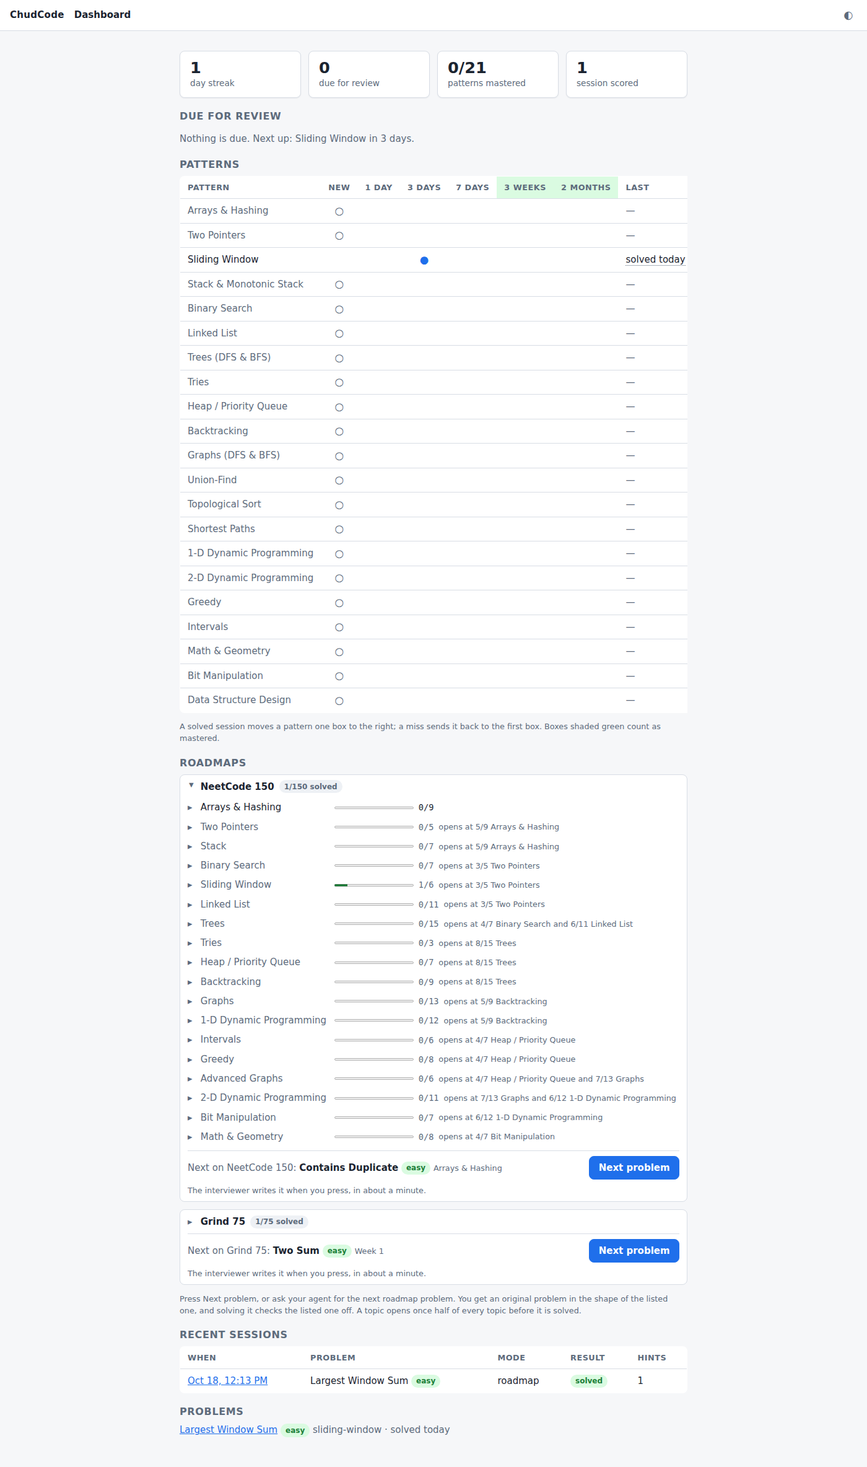
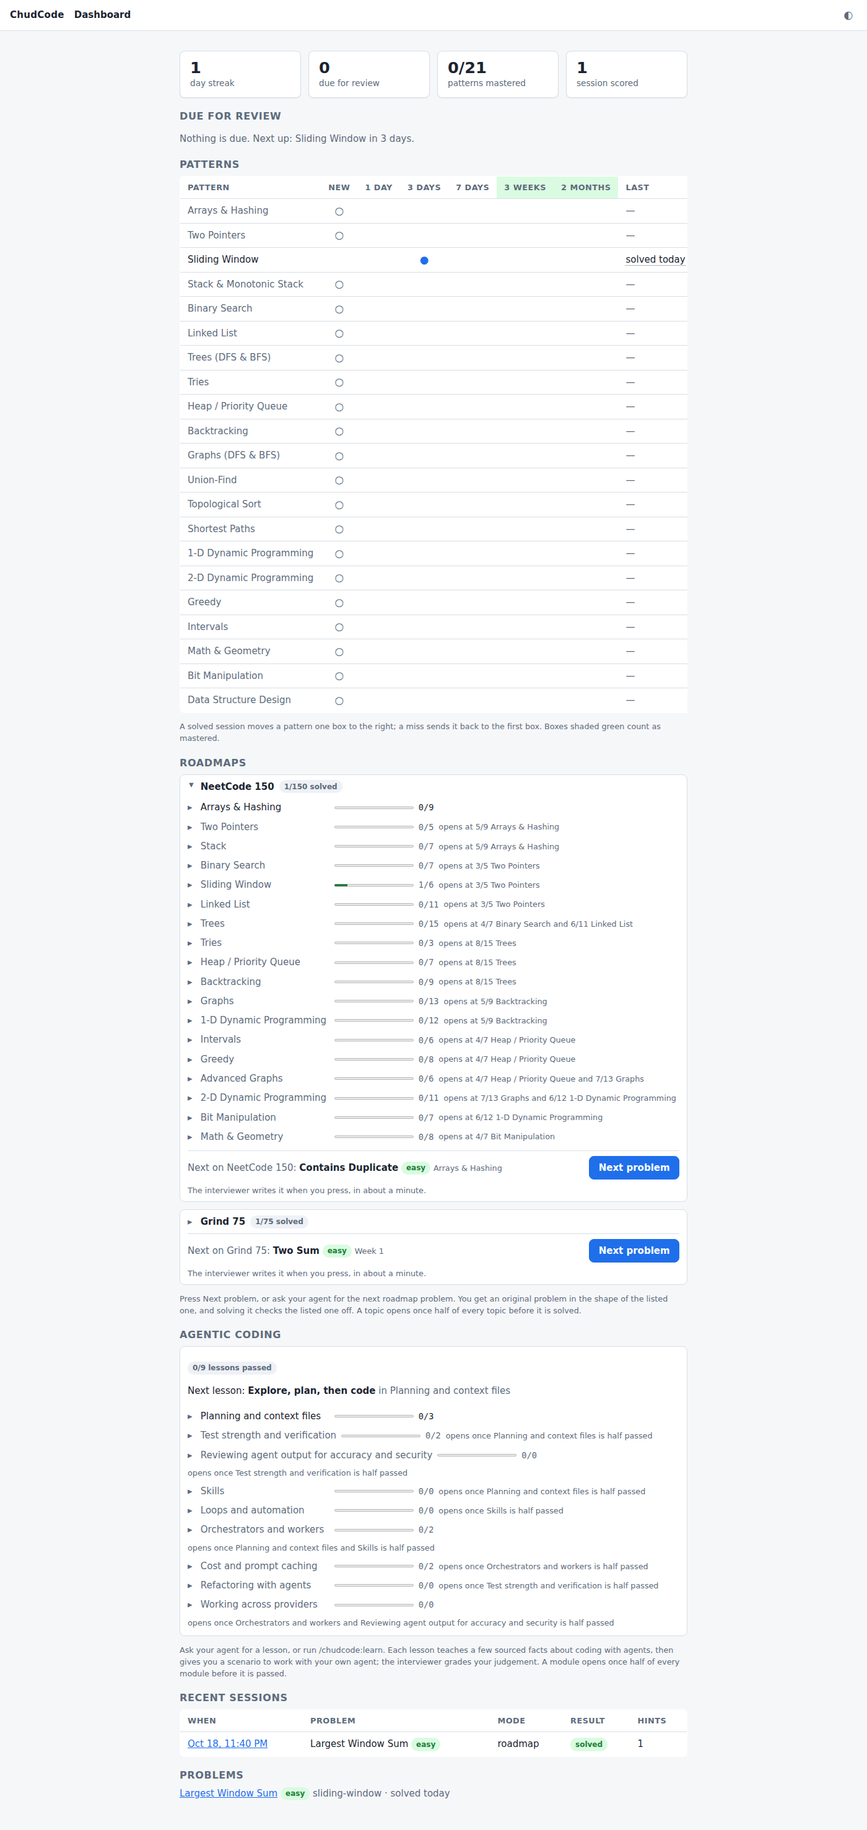
Add /chudcode:learn and Pi's /learn, with the lesson docs
The learn skill and the Pi command take the user from a topic to a scored
lesson. docs/CURRICULUM-FORMAT.md says how to add a module, a lesson, or a
sourced fact; docs/EXERCISE-FORMAT.md describes an exercise bundle and its
validation. The README and ARCHITECTURE.md describe the agentic-coding track,
with a screenshot of a lesson's debrief.

diff --git a/pi/commands.ts b/pi/commands.ts
@@ -78,6 +78,22 @@ export const COMMANDS = {
         "After the debrief, write and validate the next step ahead of time as `record_session` asks, without starting it, then end your turn. A press of Next problem on the page arrives as a new message; start the session then.",
       ].join("\n\n"),
   },
+  learn: {
+    description:
+      "Take a lesson on coding with agents: planning, context, tests, subagents, cost, and more. Usage: /learn [topic or lesson]",
+    prompt: (args: string) =>
+      [
+        "Teach a ChudCode lesson on agentic coding.",
+        args
+          ? `The user asked to learn about: ${args}`
+          : "The user named no topic, so take the next lesson.",
+        "Call `list_curriculum` if you need to match a topic to a lesson, then `begin_lesson` and follow the method it returns in full. " +
+          "Serve a validated exercise the learner has not seen, or write one with `write_exercise` and `validate_exercise` until it passes. Then call `start_lesson`.",
+        "Give the user the URL in the terminal and say one sentence on the page with `say_to_candidate`. " +
+          "The learner's actions then arrive here as messages; handle each one and end your turn. They may spend a long time with their own agent between messages. " +
+          "When their answer has arrived and you have asked your follow-ups, score it with `record_lesson` and summarise in the terminal: the verdict, two strengths, two things to work on, and when the lesson comes back.",
+      ].join("\n\n"),
+  },
   research: {
     description:
       "Find what a company has been asking in coding interviews. Usage: /research <company> [role]",

diff --git a/test/plugin.test.ts b/test/plugin.test.ts
@@ -96,7 +96,7 @@ describe("Pi package", () => {
 describe("skills", () => {
   const known = new McpSession(new CandidateInbox()).toolNames();
 
-  it.each(["interview", "review", "roadmap", "dashboard", "research"])(
+  it.each(["interview", "review", "roadmap", "dashboard", "research", "learn"])(
     "%s has frontmatter and names only tools the server lists",
     (skill) => {
       const body = fs.readFileSync(path.join(packageRoot(), "skills", skill, "SKILL.md"), "utf8");

diff --git a/test/bridge.test.ts b/test/bridge.test.ts
@@ -251,6 +251,7 @@ describe("commands", () => {
       "interview",
       "review",
       "roadmap",
+      "learn",
       "research",
       "dashboard",
     ]);

diff --git a/docs/ARCHITECTURE.md b/docs/ARCHITECTURE.md
@@ -36,23 +36,26 @@ runs in a fourth place, inside Pi, and bridges the two hosts' different abilitie
 
 ## Modules
 
-| Path                    | Job                                                                                                                                                                                    |
-| ----------------------- | -------------------------------------------------------------------------------------------------------------------------------------------------------------------------------------- |
-| `mcp/launch.mjs`        | Entry point both hosts run. Checks Node can run TypeScript, installs runtime deps on first launch, warns if Python is missing.                                                         |
-| `src/mcp.ts`            | Hand-written JSON-RPC dispatch, the tool table, the listening inbox, and routing of candidate events to prompts.                                                                       |
-| `src/next-up.ts`        | The Next problem button: one pending press, handed to the host and answered by the next roadmap session `start_session` creates.                                                       |
-| `hooks/session-link.ts` | Claude Code hook on `start_session`: prints the session's link in the terminal, so it never depends on the model's reply. Pi's extension shows the same link under the editor.         |
-| `src/outbox.ts`         | The pushing host's numbered prompt log, replayable with `GET /api/inbox?since`.                                                                                                        |
-| `src/tools/`            | One file per tool group. Tools validate arguments and call `flow.ts` or a store.                                                                                                       |
-| `src/flow.ts`           | Every operation that moves a session along: start, note, message, run, submit, hint, timeout, done, record. Writes disk, appends the event log, pushes SSE, emits the candidate event. |
-| `src/prompts.ts`        | Everything the agent reads: the brief, event prompts, result text. One place to tune the interviewer.                                                                                  |
-| `src/server/`           | Loopback HTTP: pages, the JSON API, SSE channels, the agent token.                                                                                                                     |
-| `src/runner/`           | `Runner` and `LanguageAdapter` interfaces, the process and Docker runners, comparators, and the candidate-safe view of a result.                                                       |
-| `src/store/`            | On-disk formats: config, problems, sessions, review events, trends. Atomic JSON writes, strict id validation.                                                                          |
-| `src/review.ts`         | Leitner scheduling over pattern and problem keys, derived from the review log on every read.                                                                                           |
-| `src/roadmap.ts`        | NeetCode 150's topic tree and Grind 75's weeks as stages, and each title's state, derived from sessions whose problem mimics it.                                                       |
-| `assets/runtime/`       | The browser code, plain ES modules served as-is. `assets/vendor/` holds the one bundled dependency, CodeMirror.                                                                        |
-| `pi/`                   | The Pi extension: slash commands, the bridge, the status line.                                                                                                                         |
+| Path                    | Job                                                                                                                                                                                               |
+| ----------------------- | ------------------------------------------------------------------------------------------------------------------------------------------------------------------------------------------------- |
+| `mcp/launch.mjs`        | Entry point both hosts run. Checks Node can run TypeScript, installs runtime deps on first launch, warns if Python is missing.                                                                    |
+| `src/mcp.ts`            | Hand-written JSON-RPC dispatch, the tool table, the listening inbox, and routing of candidate events to prompts.                                                                                  |
+| `src/next-up.ts`        | The Next problem button: one pending press, handed to the host and answered by the next roadmap session `start_session` creates.                                                                  |
+| `hooks/session-link.ts` | Claude Code hook on `start_session` and `start_lesson`: prints the session's link in the terminal, so it never depends on the model's reply. Pi's extension shows the same link under the editor. |
+| `src/outbox.ts`         | The pushing host's numbered prompt log, replayable with `GET /api/inbox?since`.                                                                                                                   |
+| `src/tools/`            | One file per tool group. Tools validate arguments and call `flow.ts` or a store.                                                                                                                  |
+| `src/flow.ts`           | Every operation that moves a session along: start, note, message, run, submit, hint, timeout, done, record. Writes disk, appends the event log, pushes SSE, emits the candidate event.            |
+| `src/prompts.ts`        | Everything the agent reads: the brief, event prompts, result text. One place to tune the interviewer.                                                                                             |
+| `src/server/`           | Loopback HTTP: pages, the JSON API, SSE channels, the agent token.                                                                                                                                |
+| `src/runner/`           | `Runner` and `LanguageAdapter` interfaces, the process and Docker runners, comparators, and the candidate-safe view of a result.                                                                  |
+| `src/store/`            | On-disk formats: config, problems, sessions, review events, trends. Atomic JSON writes, strict id validation.                                                                                     |
+| `src/review.ts`         | Leitner scheduling over pattern, problem, and lesson keys, derived from the review log on every read.                                                                                             |
+| `src/roadmap.ts`        | NeetCode 150's topic tree and Grind 75's weeks as stages, and each title's state, derived from sessions whose problem mimics it.                                                                  |
+| `src/curriculum.ts`     | The agentic-coding track (`data/agentic/curriculum.json`): modules, lessons, and sourced facts, with module unlocks derived from scored lessons.                                                  |
+| `src/lesson-flow.ts`    | Every operation that moves a lesson session along: start, message, answer, timeout, done, record. Lessons live in `lessons/`, apart from interviews.                                              |
+| `src/lesson-prompts.ts` | What the agent reads for lessons: the lesson brief with its facts and their freshness, and the lesson event prompts.                                                                              |
+| `assets/runtime/`       | The browser code, plain ES modules served as-is. `assets/vendor/` holds the one bundled dependency, CodeMirror.                                                                                   |
+| `pi/`                   | The Pi extension: slash commands, the bridge, the status line.                                                                                                                                    |
 
 ## One interview, end to end
 
@@ -76,6 +79,26 @@ runs in a fourth place, inside Pi, and bridges the two hosts' different abilitie
 7. `record_session` writes the rubric and verdict, appends review events for the
    problem and its patterns, and pushes the debrief card to the page and a reload
    to the dashboard.
+
+## One lesson, end to end
+
+The agentic-coding track reuses the server, the page's chat and clock, the inbox,
+and the review schedule, and keeps its own store and prompts.
+
+1. The agent calls `begin_lesson`. It returns the method (`docs/LEARNING.md`), the
+   lesson's goals and facts with their sources and which are due a re-check, the
+   exercises on disk, the learner's history, and the rubric (`docs/AGENTIC-RUBRIC.md`).
+2. The agent re-reads stale sources and logs each with `record_fact_check`, then
+   writes an exercise with `write_exercise` and validates it with
+   `validate_exercise`, which rejects teaching that cites a fact the lesson lacks or
+   misses a core one (`docs/EXERCISE-FORMAT.md`).
+3. `start_lesson` creates `lessons/<id>/` and returns the same "Session … is ready"
+   line, so the link hook and the Pi status line work unchanged.
+4. The learner reads, presses Start, works the scenario with their own agent, and
+   submits an answer. Each action goes through `lesson-flow.ts` and reaches the agent
+   like an interview event; the answer arrives beside the private outline.
+5. `record_lesson` scores the five agentic dimensions, appends one `lesson:<id>`
+   review event, and pushes the debrief.
 
 ## Two hosts, one server
 

diff --git a/README.md b/README.md
@@ -9,6 +9,11 @@ them, probes edge cases and complexity after you submit, and scores the session 
 rubric. Patterns you miss come back on a spaced-review schedule with a fresh problem,
 not the one you already saw.
 
+A second track teaches coding _with_ agents: planning with plan mode, context files,
+tests an agent cannot game, subagents with the right model and effort, prompt-caching
+cost, and more. Each lesson teaches a few facts sourced from Anthropic's docs, then
+hands you a realistic scenario to work with your own agent, and grades your judgement.
+
 **Status:** early development. Mock interviews work; the interviewer writes its own
 problems, validated against a reference solution before they are served; the
 patterns you miss come back on a Leitner schedule with a problem you have not seen;
@@ -35,7 +40,8 @@ and the plugin prints the session's link in your terminal every time one starts.
 again. `/chudcode:roadmap` takes you through NeetCode 150 in order, or Grind 75 if you
 name it: each step is an original problem in the shape of the next one on the list,
 and after each debrief a Next problem button takes you straight to the one after.
-`/chudcode:research <company>` finds what that company has been asking lately,
+`/chudcode:learn` teaches the next lesson on coding with agents, or the topic you
+name. `/chudcode:research <company>` finds what that company has been asking lately,
 so an interview for it has the right shape. `/chudcode:dashboard` opens the page with
 your review schedule, streak, and past sessions.
 
@@ -69,7 +75,7 @@ Then add the server to `~/.pi/agent/mcp.json`, with the absolute path to your cl
 ```
 
 `CHUDCODE_HOST=pi` is what switches the server from waiting to pushing. The commands
-are `/interview`, `/review`, `/roadmap`, `/research <company>`, and `/dashboard`. While the
+are `/interview`, `/review`, `/roadmap`, `/learn`, `/research <company>`, and `/dashboard`. While the
 interviewer is connected, Pi shows `chudcode interviewer connected on port <port>`
 below the editor, and the link of the session it opened last.
 
@@ -102,6 +108,17 @@ make sure the patterns you keep missing are the ones you see again.
   so a "like Two Sum" interview counts too. After a roadmap debrief the interviewer
   writes the next step ahead of time and stays for a while; the Next problem button
   on the debrief or the dashboard opens it without a trip back to the terminal.
+- Agentic coding lessons: nine modules, from planning and context files through test
+  strength, subagents with chosen models and effort, and prompt-caching cost, to
+  working across providers. Every claim a lesson teaches about Claude Code cites a
+  fact in `data/agentic/curriculum.json`, each with the page that states it; the
+  interviewer re-reads sources older than two weeks before teaching, and an exercise
+  that cites anything else fails validation. You get a scenario, work it with your
+  own agent, submit your plan or spec, answer follow-ups, and are scored on
+  decomposition, verification, context and cost, safety, and delegation. Missed
+  lessons come back on the review schedule. See `docs/LEARNING.md` and
+  `docs/CURRICULUM-FORMAT.md`. Labs on your own repository and drills graded by code
+  are next.
 - Company trends: the research skill reads recent interview-experience posts with
   the host's web tools and records each problem as a pattern, a role, a date, a
   source, and a short paraphrase of its shape, never a statement. Name the company
@@ -116,10 +133,16 @@ when the pattern comes back, and, on a roadmap, the button for the next problem.
 
 ![The page after the debrief: 12 of 12 cases passed, the rubric card with scores, strengths, and things to work on, and a Next problem button for Contains Duplicate on NeetCode 150](docs/screenshots/session-debrief.png)
 
-The dashboard shows every pattern's place in the review schedule, what is due, the
-streak, progress through both roadmaps, and past sessions.
+A lesson shows its teaching with numbered sources on the left, the scenario and your
+answer in the middle, and the interviewer on the right.
 
-![The dashboard: streak and due counts, the pattern grid with Sliding Window in the three-day box, the NeetCode 150 topics with what each needs to open, a Next problem button under each roadmap, and recent sessions](docs/screenshots/dashboard.png)
+![A lesson page: the teaching on planning with three cited sources, the brief for planning OFX import into a ledger CLI with a submitted answer, and a debrief that passed on decomposition and verification](docs/screenshots/lesson-debrief.png)
+
+The dashboard shows every pattern's place in the review schedule, what is due, the
+streak, progress through both roadmaps and the agentic-coding modules, and past
+sessions.
+
+![The dashboard: streak and due counts, the pattern grid with Sliding Window in the three-day box, the NeetCode 150 topics with what each needs to open, a Next problem button under each roadmap, the agentic-coding modules with the next lesson, and recent sessions](docs/screenshots/dashboard.png)
 
 The screenshots come from `npm run e2e:browser -- <dir>`, which drives the real page.
 How the pieces fit is in `docs/ARCHITECTURE.md`.

diff --git a/docs/CURRICULUM-FORMAT.md b/docs/CURRICULUM-FORMAT.md
@@ -1,0 +1,68 @@
+# Curriculum format
+
+The agentic-coding track is one file, `data/agentic/curriculum.json`, checked by
+`validateCurriculum` in `src/curriculum.ts` when it loads and by
+`test/curriculum.test.ts` in CI.
+
+```json
+{
+  "version": 1,
+  "factHosts": ["code.claude.com", "docs.claude.com", "platform.claude.com", "www.anthropic.com"],
+  "modules": [
+    {
+      "id": "planning",
+      "name": "Planning and context files",
+      "blurb": "One sentence for the dashboard.",
+      "requires": [],
+      "lessons": [
+        {
+          "id": "plan-before-code",
+          "title": "Explore, plan, then code",
+          "goals": ["What the learner can do afterwards"],
+          "facts": [
+            {
+              "id": "plan-mode-behavior",
+              "claim": "One or two sentences, true of Claude Code as the source states it.",
+              "source": "https://code.claude.com/docs/en/permission-modes",
+              "core": true,
+              "verifiedAt": "2026-10-18",
+              "minVersion": "2.1.0"
+            }
+          ],
+          "exercises": ["design-review", "lab"],
+          "rubricFocus": ["decomposition", "verification"],
+          "checklist": [{ "id": "phases", "text": "What a lab checks for" }],
+          "labFiles": ["PLAN.md", "progress.md"]
+        }
+      ]
+    }
+  ]
+}
+```
+
+## Rules
+
+- **Modules** are listed in unlock order. `requires` may name only earlier modules.
+  A module opens once every module it requires has half of its teachable lessons
+  passed (rounded up), and the modules it requires are open themselves.
+- **Lessons** have unique ids across the file. `rubricFocus` names dimensions from
+  `docs/AGENTIC-RUBRIC.md`; each must score 2 or more for the lesson to pass.
+- **Facts** have unique ids across the file. Each claim is something its source page
+  says, checked by a person or an agent reading that page on `verifiedAt`; never a
+  claim from memory. `source` must be an `https` URL on one of `factHosts`. A fact
+  that only holds from some Claude Code version carries `minVersion`. A teachable
+  lesson has at least two facts, at least one of them `core`. Exercise teaching must
+  cite every core fact as `[fact:<id>]`.
+- **Outlines.** A lesson with `"facts": []` is an outline: it shows on the dashboard
+  as coming, cannot be taught, and does not count toward unlocking. Write and source
+  its facts to make it teachable.
+- **Labs.** A teachable lesson that lists `lab` needs a `checklist` and the
+  `labFiles` a lab reads.
+
+## Keeping facts current
+
+Claude Code changes faster than this file. Before teaching, the interviewer re-reads
+the source of any fact last confirmed more than 14 days ago and records what it
+found with `record_fact_check` in `~/.chudcode/curriculum/fact-checks.jsonl`. A fact
+found changed is taught as the page says now, flagged on the lesson page, and
+stays flagged until this file is updated and its `verifiedAt` moved forward.

diff --git a/skills/learn/SKILL.md b/skills/learn/SKILL.md
@@ -1,0 +1,33 @@
+---
+name: learn
+description: Teach a lesson on coding with agents, such as planning with plan mode, CLAUDE.md and progress files, context and cost, strong tests, subagents with the right model and effort, skills, loops, refactoring, or working across providers. The learner works a realistic scenario with their own agent and is graded on their judgement. Use when the user wants to get better at agentic coding or asks what there is to learn about it.
+---
+
+# Learn
+
+1. If the user named a topic, match it to a lesson or module with `list_curriculum`;
+   pass `module` to see a module's lessons. Otherwise take the next lesson.
+2. Call `begin_lesson` from the `chudcode` MCP server with the lesson or module, and
+   follow the method it returns in full. If it says the module is locked, suggest
+   the lesson it builds on; if the user still wants this one, call it again with
+   override_lock set to true.
+3. If the brief lists facts to check and you have web tools, re-read each source
+   page and record what you found with `record_fact_check`. Teach a fact that
+   changed as the page says now, and tell the user the shipped one is out of date.
+4. Serve a validated exercise the learner has not seen if the brief names one.
+   Otherwise write a fresh one with `write_exercise`: short teaching that cites every
+   core fact, a realistic scenario, and your private outline, follow-ups, and
+   pitfalls. Then call `validate_exercise` until it passes.
+5. Call `start_lesson` with the slug. Give the user the URL in the terminal, say one
+   sentence on the page with `say_to_candidate`, then stay with the lesson:
+   `wait_for_candidate`, answer questions with `say_to_candidate`, read the answer
+   when it arrives, ask one or two follow-ups, and use `get_session` if you need the
+   state. The learner may spend a long time in another terminal with their own
+   agent; keep waiting. Do not end your turn during the lesson.
+6. Score it with `record_lesson`, then give the user the verdict, two strengths, two
+   things to work on, and when the lesson comes back for review.
+
+If the lesson stops for reasons unrelated to the learner, end it with
+`abandon_session` and reason interrupted. When the user only asks how far along
+they are, answer from `list_curriculum`. The dashboard from `open_dashboard` shows
+every module and lesson.

diff --git a/docs/EXERCISE-FORMAT.md b/docs/EXERCISE-FORMAT.md
@@ -1,0 +1,41 @@
+# Exercise format
+
+An exercise is what a lesson session serves: the teaching, a brief to work from, and
+private material the interviewer grades against. The interviewer writes a fresh one
+for each lesson with `write_exercise` and validates it with `validate_exercise`
+before serving it with `start_lesson`.
+
+```
+~/.chudcode/exercises/<slug>/
+  meta.json      { slug, kind, lesson, title, createdAt, validatedAt?, timesServed, lastServedAt? }
+  teaching.md    the lesson, citing curriculum facts as [fact:<id>]
+  brief.md       "## Scenario" and "## Your task"
+  private.json   { modelOutline, followUps[], pitfalls[] }
+```
+
+The page shows `teaching.md` and `brief.md` only. `private.json` never leaves the
+server: the browser routes build their view through `publicExercise`, and a test
+checks that the outline and follow-ups appear on no page or API response.
+
+## Validation
+
+`validate_exercise` checks that:
+
+- the exercise's lesson exists and lists its kind;
+- the brief is 200 to 8,000 characters with both sections;
+- the teaching is 600 to 16,000 characters, cites every core fact of the lesson, and
+  cites no fact the lesson does not have, so nothing unsourced is taught as fact;
+- the outline is at least 200 characters, with at least two follow-ups and two
+  pitfalls, and the outline does not appear in the brief or teaching.
+
+Writing an exercise again clears its validation.
+
+## Kinds
+
+| Kind            | The learner                                                          | Graded by                      |
+| --------------- | -------------------------------------------------------------------- | ------------------------------ |
+| `design-review` | writes a plan, a context file, or a delegation spec for the scenario | the interviewer, on the rubric |
+
+Labs on the learner's own repository and drills graded by code (mutation testing of
+agent-written tests, finding planted flaws in an agent's diff, cache planning) are
+listed in the curriculum and come in later versions.
